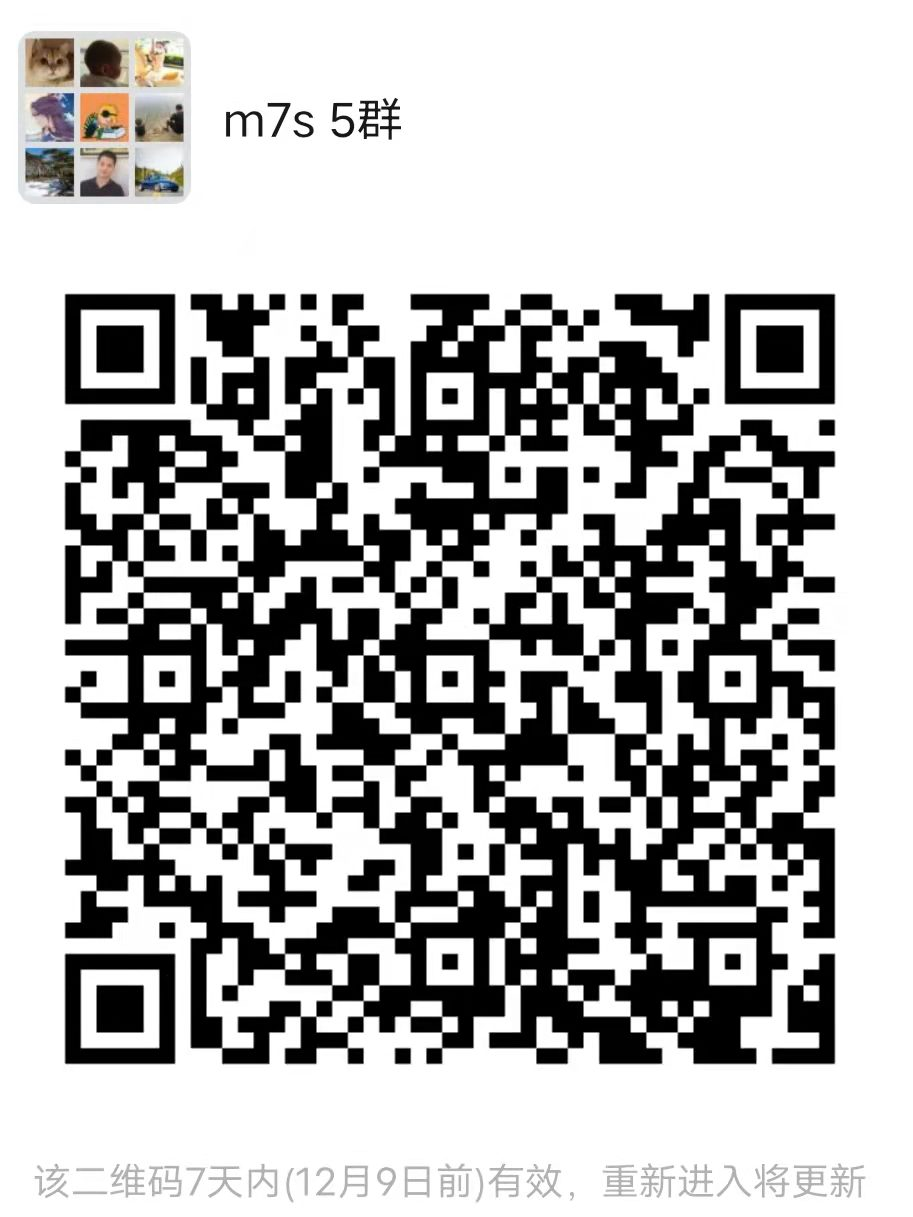
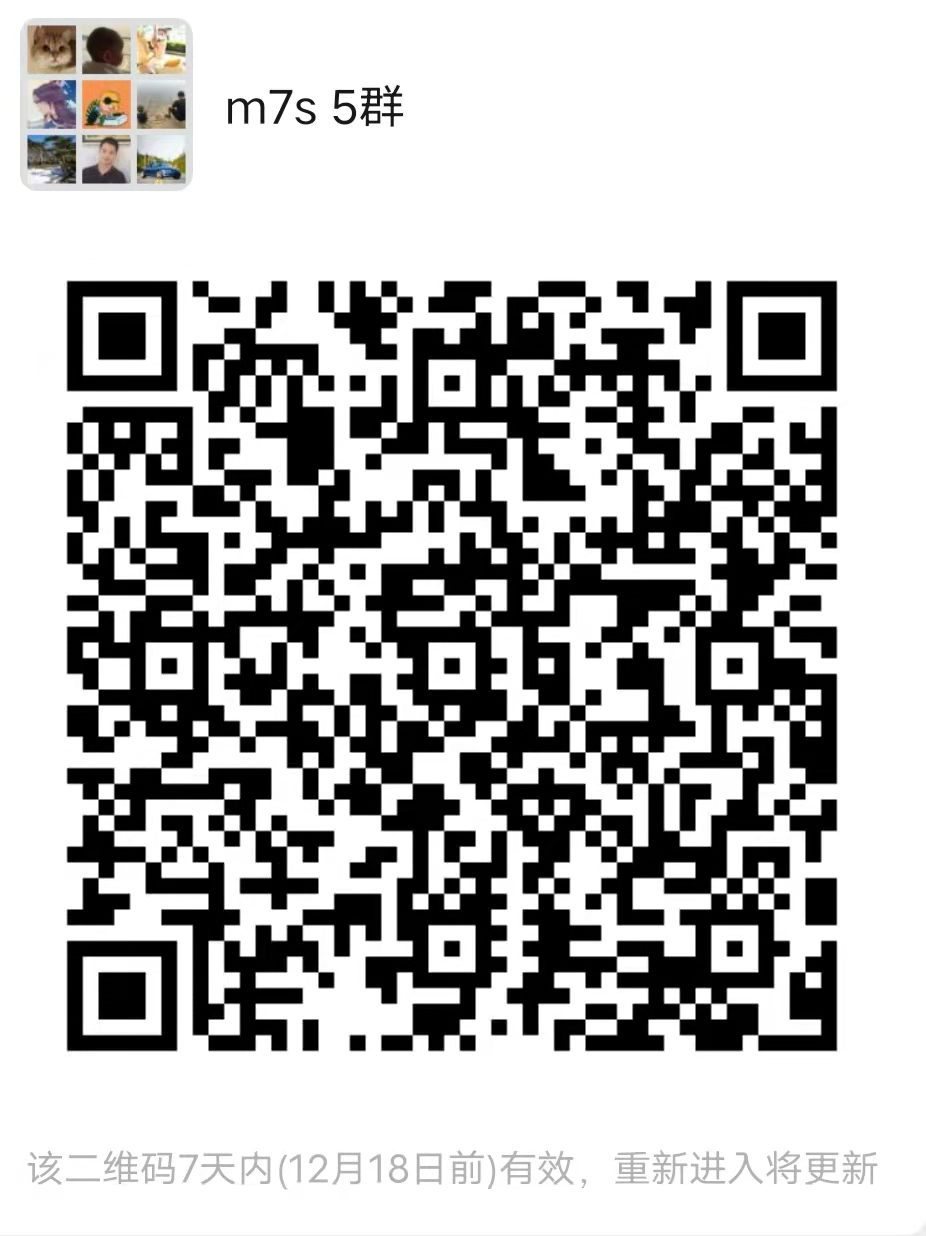
更新二维码和版本

diff --git a/src/App.vue b/src/App.vue
@@ -41,7 +41,7 @@ export default defineComponent({
       payClass[lastValue] = 'animate__flipInY';
     }));
     return {
-      version: 'v3.0.14',
+      version: 'v3.0.15',
       payClass,
       darkTheme: createTheme([modalDark, cardDark, radioDark, tabsDark]),
       zhCN,
